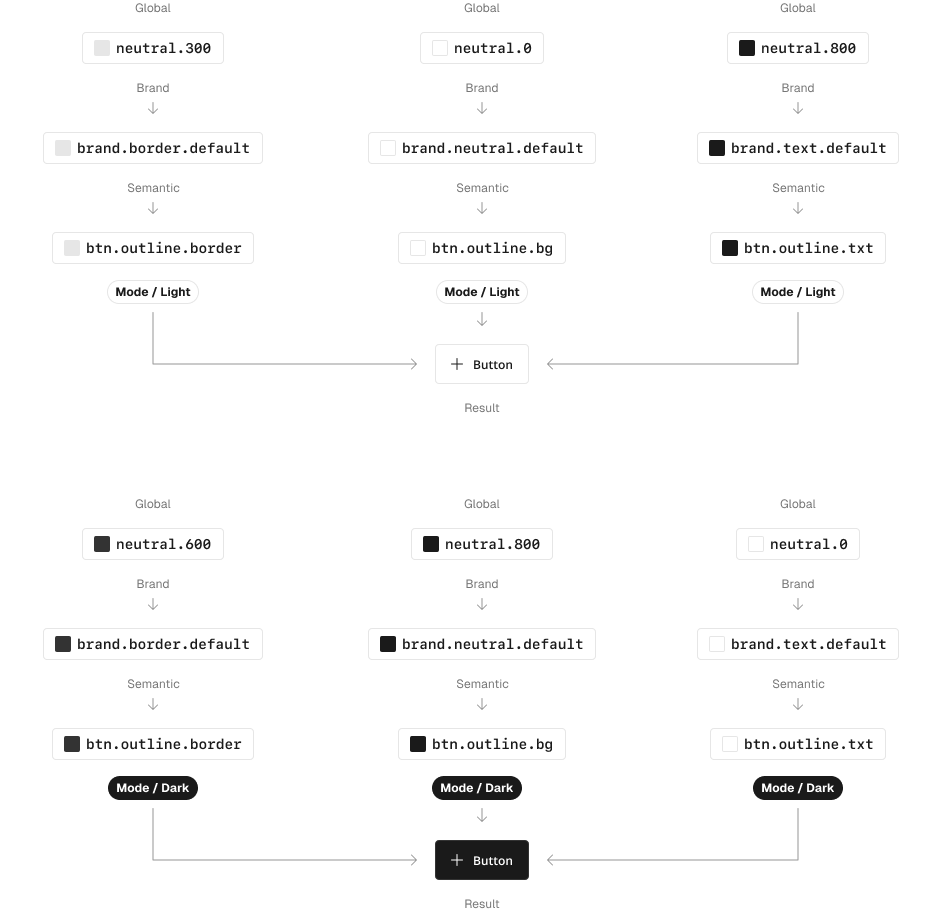
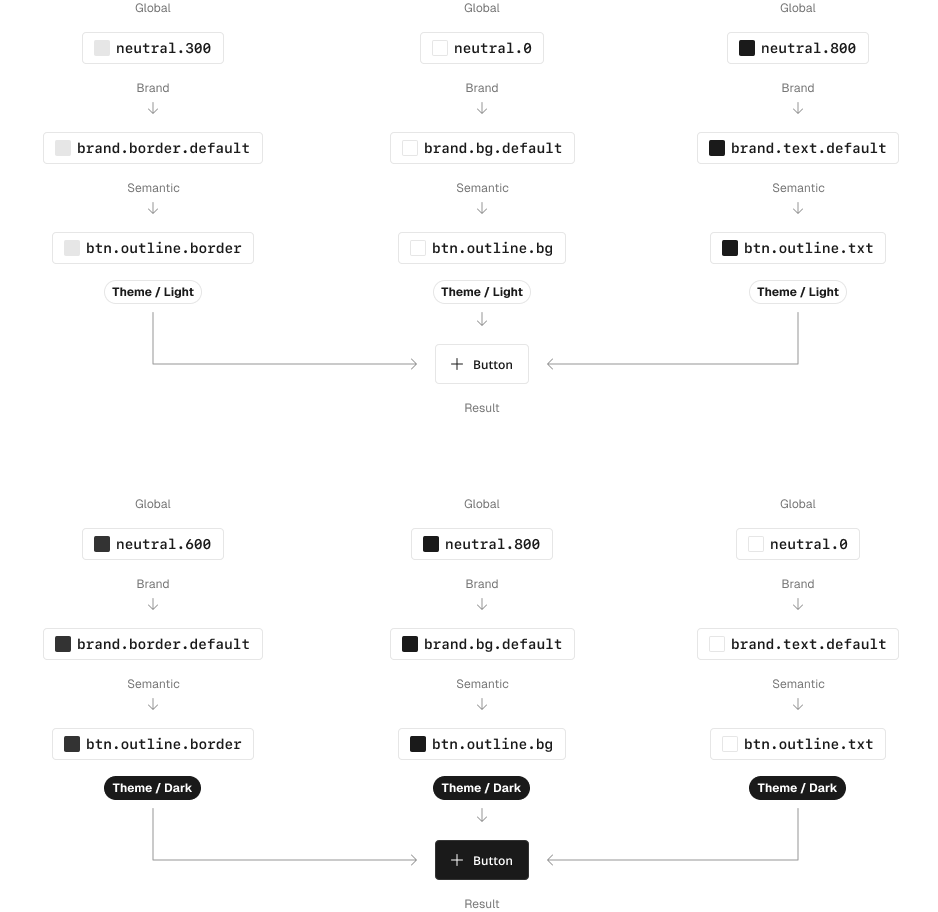
Copy updates

diff --git a/_work/bubble-pop.md b/_work/bubble-pop.md
@@ -18,7 +18,7 @@ description-2: This new and growing design system provides a comprehensive set o
 <div class="c-wrap__project" markdown=1>
 
 ## Where design and engineering intersect
-The contribution model to the Pop design system was a distributed collaboration between a few designers and a couple engineers on each team that I oversaw and directly contributed to every piece. My favorite thing about design systems is the inherent way they foster deep collaboration between designers and engineers to bring resilience and speed to the product development process.
+The contribution model to the Pop design system was a distributed collaboration between a few designers and a couple engineers on each team that I oversaw and directly contributed to every piece of. My favorite thing about design systems is the inherent way they foster deep collaboration between designers and engineers to bring resilience and speed to the product development process.
 
 </div>
 
@@ -36,7 +36,7 @@ I brought my deep expertise in mathematical web typography to Bubble and the Pop
 
 In mathematical progressions, there are 4 primary types: arithmetic, geometric, harmonic, and quadratic. The rest of the industry was using geometric progressions such as the golden ratio, minor thirds, or major fourths, which all had underlying problems. In geometric progressions, you simply multiply the previous value by the chosen ratio (such as minor thirds). The result of this is font sizes with 10+ decimal points. These values can be rounded, but this method came from print and was attempting to be retrofitted for screens.
 
-What I discovered in the benefit of a quadratic progression is that you still get the non-linear growth you want in a type scale for proper hierarchy. The real magic is that you also get sensible whole-number integers as your font sizes. This is what that looks like in practice.
+What I discovered in the benefit of using quadratic progressions is that you still get the non-linear growth you want in a type scale for proper hierarchy, and you also get sensible whole numbers as your font sizes. This is what that looks like in practice.
 
 </div>
 
@@ -73,7 +73,7 @@ What I discovered in the benefit of a quadratic progression is that you still ge
 <div class="c-wrap__project" markdown=1>
 
 ### Design token architecture
-Design tokens allow a company to establish its core visual language, map the global values to brand values, and eventually map the brand values to semantic values for use in components. This also easily enables transformation at the core level as needed into color modes, such as light and dark, or entirely new brands with much less effort and cost than building each from scratch.
+Design tokens allow a company to establish its core visual language, map the global values to brand values, and eventually map the brand values to semantic values for use in components. This also enables easy transformation at the core level as needed to switch themes, such as light and dark, or entirely new brands with much less effort and cost than building each from scratch.
 
 Design tokens are created in close collaboration with engineering to ensure immutable alignment with code. We achieved this by using the Tokens Studio Figma plugin that syncs to GitHub, allowing engineers to have a shared language with design at every level of the system.
 
@@ -105,7 +105,7 @@ All of this may seem complicated under the hood, but the end result is a high-cr
 <div class="c-wrap__project" markdown=1>
 
 ### Component architecture
-For this system, we approached everything as a component, starting at the atomic level. This allowed for handling component sizes and variants at this level instead of trying to build every size and variant for more complex components composed of many other atomic components. This resulted in consistency and flexibility when needing to design in Figma and build in code.
+For this system, we approached everything as a component, starting at the atomic level. This allowed for handling component sizes and variants at this level instead of trying to build every size and variant for more complex components composed of many other atomic components. This resulted in both consistency and flexibility when needing to design in Figma and build in code.
 
 </div>
 
